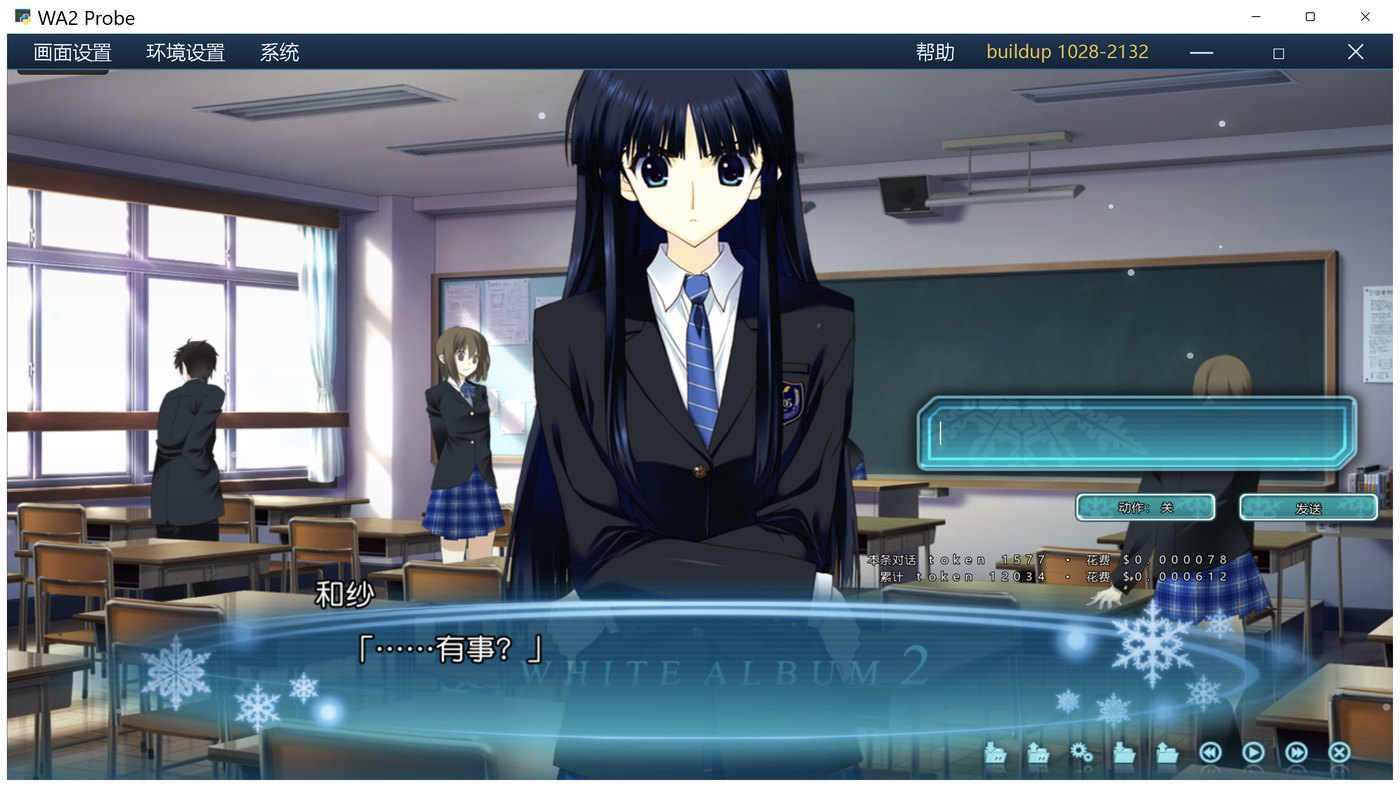
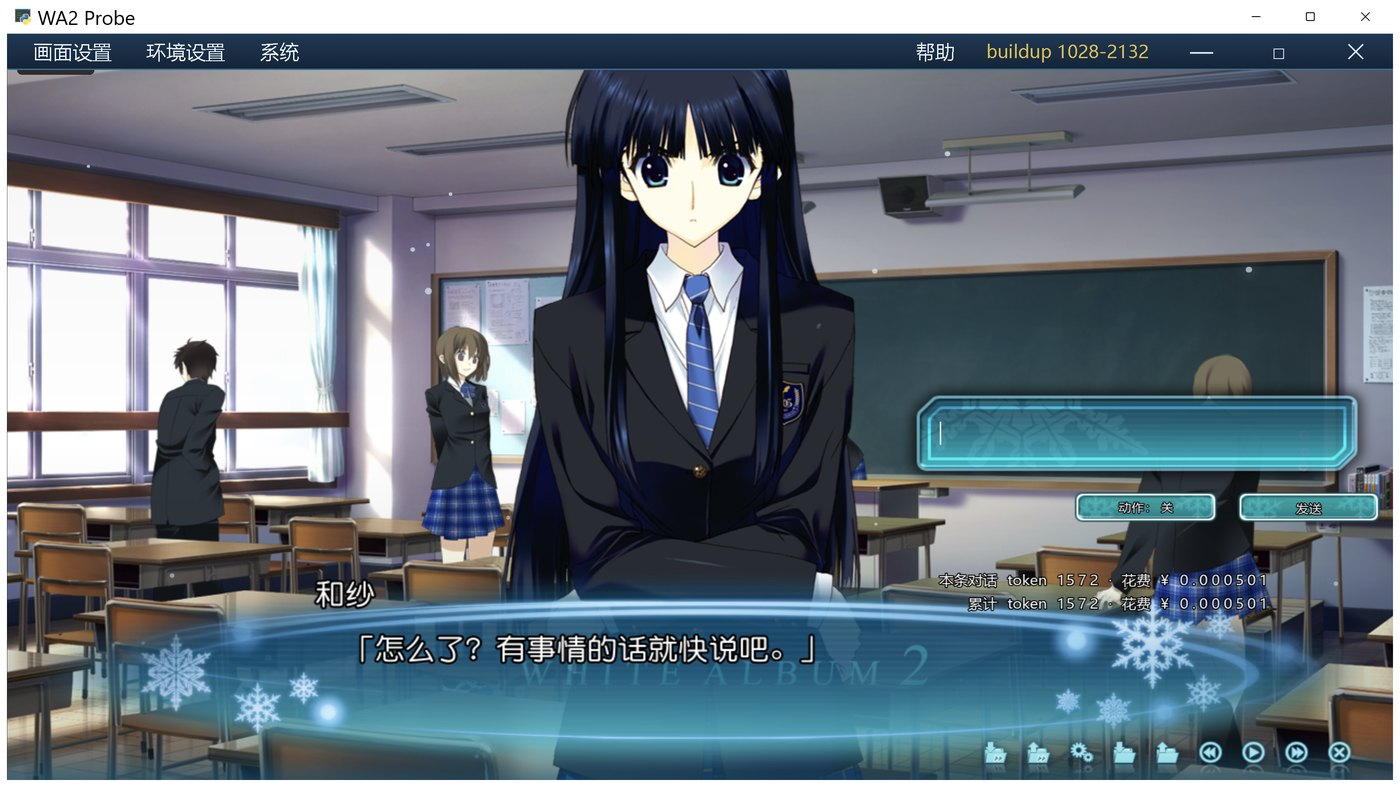
花费栏改用烤好的字模，位置下移右移，随隐藏窗口一起隐藏
- 新增 tools/bake_cost_ui.py：PIL 直接排版烤图（字体自带度量，解决
  /api/text 固定网格把 token、数字撑开的问题）
- 17 张图：本条对话/累计/token/花费/¥/·/./0~9，同高画布共用基线只横裁，
  前端统一 12px 高显示即对齐；数字按 bbox 裁紧
- 位置改为 right:72px bottom:101px（用户指定）；右键隐藏窗口时一起隐藏
- 前端不再为这一栏请求 /api/text，纯拼图

Changed region(s): [[0.6143, 0.7014, 0.9214, 0.7929], [0.2457, 0.7929, 0.5836, 0.8539]]

diff --git a/program/src/ui/index.html b/program/src/ui/index.html
@@ -4,13 +4,13 @@
 <meta charset="UTF-8">
 <meta name="viewport" content="width=device-width, initial-scale=1.0">
 <title>AI 聊天界面架构</title>
-<link rel="stylesheet" href="screens-base.css?v=11011860">
-<link rel="stylesheet" href="opt-screen.css?v=11011860">
-<link rel="stylesheet" href="save-screen.css?v=11011860">
-<link rel="stylesheet" href="game450.css?v=11011860">
-<link rel="stylesheet" href="unifont.css?v=11011860">
-<link rel="stylesheet" href="opt.css?v=11011860">
-  <link rel="stylesheet" href="menubar.css?v=11011860">
+<link rel="stylesheet" href="screens-base.css?v=11011870">
+<link rel="stylesheet" href="opt-screen.css?v=11011870">
+<link rel="stylesheet" href="save-screen.css?v=11011870">
+<link rel="stylesheet" href="game450.css?v=11011870">
+<link rel="stylesheet" href="unifont.css?v=11011870">
+<link rel="stylesheet" href="opt.css?v=11011870">
+  <link rel="stylesheet" href="menubar.css?v=11011870">
 </head>
 <body>
 <div id="stage">
@@ -168,7 +168,7 @@
   </div>
 
   <div id="glowBottom"><img src="assets/ui/glow_bottom.png" alt=""></div>
-  <div id="costBar"><div class="row" id="costNow"></div><div class="row" id="costTotal"></div></div>
+  <div id="costBar"><div class="row"><img class="lb" src="assets/ui/text/cost_now.png" alt=""><img class="lb" src="assets/ui/text/cost_token.png" alt=""><span class="num" id="costNowT"></span><img class="lb" src="assets/ui/text/cost_sep.png" alt=""><img class="lb" src="assets/ui/text/cost_spend.png" alt=""><img class="lb" src="assets/ui/text/cost_yen.png" alt=""><span class="num" id="costNowC"></span></div><div class="row"><img class="lb" src="assets/ui/text/cost_cum.png" alt=""><img class="lb" src="assets/ui/text/cost_token.png" alt=""><span class="num" id="costTotalT"></span><img class="lb" src="assets/ui/text/cost_sep.png" alt=""><img class="lb" src="assets/ui/text/cost_spend.png" alt=""><img class="lb" src="assets/ui/text/cost_yen.png" alt=""><span class="num" id="costTotalC"></span></div></div>
   <div id="toolbar">
     <div class="tb" data-act="qsave"><img class="nm" src="assets/tb2/save_0.png" alt=""><img class="hv" src="assets/tb2/save_1.png" alt=""></div>
     <div class="tb" data-act="qload"><img class="nm" src="assets/tb2/qsave_0.png" alt=""><img class="hv" src="assets/tb2/qsave_1.png" alt=""></div>
@@ -190,20 +190,20 @@
 </div>
 
 <script>function fitStage(){var st=document.getElementById("stage");if(!st)return;var sx=innerWidth/800, sy=innerHeight/450;st.style.transform="translate(-50%,-50%) scale("+sx+","+sy+")";}window.fitStage=fitStage;addEventListener("resize",fitStage);fitStage();</script>
-<script src="atlas.js?v=11011860"></script>
-<script src="config.js?v=11011860"></script>
-<script src="modelmgr.js?v=11011860"></script>
-<script src="opt.js?v=11011860"></script>
-  <script src="savetabs4.js?v=11011860"></script>
-  <script src="savepages.js?v=11011860"></script>
-  <script src="screens.js?v=11011860"></script>
-<script src="game.js?v=11011860"></script>
-<script src="sound.js?v=11011860"></script>
-<script src="zoom.js?v=11011860"></script>
-<script src="debug.js?v=11011860"></script>
-<script src="scale.js?v=11011860"></script>
-<script src="menubar.js?v=11011860"></script>
-<script src="uitext.js?v=11011860"></script>
+<script src="atlas.js?v=11011870"></script>
+<script src="config.js?v=11011870"></script>
+<script src="modelmgr.js?v=11011870"></script>
+<script src="opt.js?v=11011870"></script>
+  <script src="savetabs4.js?v=11011870"></script>
+  <script src="savepages.js?v=11011870"></script>
+  <script src="screens.js?v=11011870"></script>
+<script src="game.js?v=11011870"></script>
+<script src="sound.js?v=11011870"></script>
+<script src="zoom.js?v=11011870"></script>
+<script src="debug.js?v=11011870"></script>
+<script src="scale.js?v=11011870"></script>
+<script src="menubar.js?v=11011870"></script>
+<script src="uitext.js?v=11011870"></script>
 <script>
 /* __hashRoute: 用 #opt / #save / #model 直接打开界面(调试/对比用) */
 window.addEventListener("load", function () {

diff --git a/program/src/ui/game.js b/program/src/ui/game.js
@@ -1536,33 +1536,39 @@ document.addEventListener("contextmenu", function (e) {
 });
 
 /* ---------- 右下角：本条 / 累计 token 与花费 ----------
-   数字来自后端 /api/usage（按官网价格表算钱），文字走统一字模接口 /api/text */
-function moneyText(v, cur) {
-  var sym = (cur === "USD") ? "$" : "\u00a5";   /* 默认人民币 */
-  v = Number(v) || 0;
-  if (v === 0) return sym + "0";
-  if (v < 0.01) return sym + v.toFixed(6);
-  if (v < 1) return sym + v.toFixed(4);
-  return sym + v.toFixed(3);
+   文案与 0~9 都是烤好的字模（tools/bake_cost_ui.py），这里只负责拼图，
+   不再请求 /api/text —— 那个渲染器是中文网格，拉丁字母会被撑开。 */
+var COST_EL = {};
+function costNum(el, str) {
+  if (!el) return;
+  if (el.dataset.v === str) return;
+  el.dataset.v = str;
+  var html = "";
+  for (var i = 0; i < str.length; i++) {
+    var ch = str.charAt(i);
+    var key = (ch === ".") ? "cost_dot" : ("cost_d" + ch);
+    html += '<img src="assets/ui/text/' + key + '.png" alt="">';
+  }
+  el.innerHTML = html;
 }
 
-function costLine(el, text) {
-  if (!el) return;
-  if (el.dataset.t === text) return;
-  el.dataset.t = text;
-  /* chars_per_line 必须给足，否则默认 20 字会折成两行，再按 8px 高显示就糊成一团 */
-  el.innerHTML = '<img src="/api/text?text=' + encodeURIComponent(text) +
-                 '&plain=1&chars_per_line=80&max_width=4000" alt="">';
+/* 金额转成"纯数字串"（币种符号已经是一张固定的 ¥ 图） */
+function moneyStr(v) {
+  v = Number(v) || 0;
+  if (v === 0) return "0";
+  if (v < 0.01) return v.toFixed(6);
+  if (v < 1) return v.toFixed(4);
+  return v.toFixed(3);
 }
 
 function renderCost(u) {
   if (!u) return;
   if (u.tokens !== undefined) {
-    costLine(document.getElementById("costNow"),
-      "本条对话 token " + u.tokens + " · 花费 " + moneyText(u.cost, u.currency));
+    costNum(COST_EL.nowT, String(Math.round(u.tokens)));
+    costNum(COST_EL.nowC, moneyStr(u.cost));
   }
-  costLine(document.getElementById("costTotal"),
-    "累计 token " + (u.cumTokens || 0) + " · 花费 " + moneyText(u.cumCost || 0, u.currency));
+  costNum(COST_EL.totT, String(Math.round(u.cumTokens || 0)));
+  costNum(COST_EL.totC, moneyStr(u.cumCost));
 }
 window.__renderCost = renderCost;
 
@@ -1572,13 +1578,17 @@ window.__refreshCost = function () {
     fetch("/api/usage", { cache: "no-store" })
       .then(function (r) { return r.json(); })
       .then(function (d) {
-        if (d && d.ok) renderCost({ cumTokens: d.tokens, cumCost: d.cost, currency: d.currency });
+        if (d && d.ok) renderCost({ cumTokens: d.tokens, cumCost: d.cost });
       })
       .catch(function () {});
   } catch (e) {}
 };
 
 document.addEventListener("DOMContentLoaded", function () {
+  COST_EL.nowT = document.getElementById("costNowT");
+  COST_EL.nowC = document.getElementById("costNowC");
+  COST_EL.totT = document.getElementById("costTotalT");
+  COST_EL.totC = document.getElementById("costTotalC");
   window.__refreshCost();
   setInterval(function () { window.__refreshCost(); }, 20000);
 });
@@ -1591,7 +1601,8 @@ document.addEventListener("DOMContentLoaded", function () {
   css.textContent =
     "body.uiHidden #msgWrap,body.uiHidden #inputBar,body.uiHidden #toolbar," +
     "body.uiHidden #menuBar,body.uiHidden #glowBottom,body.uiHidden #historyPanel," +
-    "body.uiHidden #thinkBox,body.uiHidden #choiceScreen,body.uiHidden .uiScreen," +
+    "body.uiHidden #thinkBox,body.uiHidden #choiceScreen,body.uiHidden #costBar," +
+    "body.uiHidden .uiScreen," +
     "body.uiHidden #dbgPanel{" +
     "opacity:0!important;pointer-events:none!important}";
   document.head.appendChild(css);

diff --git a/program/src/ui/game450.css b/program/src/ui/game450.css
@@ -844,16 +844,25 @@ body.histOpen #toolbar { display:none !important; }
 #thinkBtn.released::before, #sendBtn.released::before { background-position: 0 100%; }
 
 /* ===== 右下角：本条 / 累计 token 与花费 =====
-   位置按用户框的位置：对话框上方、发送按钮右侧
-   字走统一字模接口（/api/text），两条各一张图 */
+   文案和数字都是烤好的字模（tools/bake_cost_ui.py），前端只拼图，不再请求 /api/text
+   位置：发送按钮下方偏右（用户指定） */
 #costBar {
   position: absolute;
-  right: 93px;
-  bottom: 127px;
-  text-align: right;
+  right: 72px;
+  bottom: 101px;
   z-index: 24;
   pointer-events: none;
-  opacity: .92;
+  opacity: .95;
 }
-#costBar .row { height: 9px; margin-top: 1px; }
-#costBar .row img { height: 8px; width: auto; display: inline-block; }
+#costBar .row {
+  display: flex;
+  justify-content: flex-end;
+  align-items: center;
+  height: 12px;
+  margin-top: 2px;
+  gap: 3px;
+}
+#costBar .row img { height: 12px; width: auto; display: block; }
+#costBar .num { display: inline-flex; align-items: center; margin: 0 1px; }
+#costBar .row img.lb { margin: 0 .5px; }
+#costBar .num img { height: 12px; width: auto; display: block; margin: 0 .4px; }

diff --git a/program/tools/bake_cost_ui.py b/program/tools/bake_cost_ui.py
@@ -1,0 +1,77 @@
+# -*- coding: utf-8 -*-
+"""烤「花费」那一栏的字模：固定文案 + 0~9 单字。
+
+为什么不走 /api/text：
+    字模渲染器是给中文设计的固定网格（每个字 28px 步进），
+    拉丁字母和数字会被撑得很开（token 变成 t o k e n）。
+    这里改用 PIL 直接排版 —— 一个词一次画完，字符间距是字体自己的度量。
+
+做法：
+    所有小图都画在**同高画布**上、共用同一条基线，只横向裁掉空白。
+    这样前端把每张都设成同一个高度，字就是对得齐的。
+
+用法：
+    python tools/bake_cost_ui.py
+"""
+import os
+import sys
+
+from PIL import Image, ImageDraw, ImageFont
+
+BASE = os.path.dirname(os.path.dirname(os.path.abspath(__file__)))
+OUT = os.path.join(BASE, "res", "assets", "ui", "text")
+
+FONT_PATH = r"C:/Windows/Fonts/msyh.ttc"
+SIZE = 28
+STROKE = 2
+CANVAS_H = 40          # 统一高度（含上伸部/下伸部），前端按同一高度显示
+BASELINE = 30
+PAD = 4
+FILL = (255, 255, 255, 255)
+STROKE_COLOR = (0, 0, 0, 255)
+
+ITEMS = {
+    "cost_now":   "本条对话",
+    "cost_cum":   "累计",
+    "cost_token": "token",
+    "cost_spend": "花费",
+    "cost_sep":   "·",
+    "cost_yen":   "¥",
+    "cost_dot":   ".",
+}
+for _d in range(10):
+    ITEMS["cost_d%d" % _d] = str(_d)
+
+
+def bake(text, font):
+    canvas = Image.new("RGBA", (900, CANVAS_H), (0, 0, 0, 0))
+    d = ImageDraw.Draw(canvas)
+    # anchor="ls"：左下角 = 基线左下，保证所有小图共用一条基线
+    d.text((PAD, BASELINE), text, font=font, fill=FILL,
+           stroke_width=STROKE, stroke_fill=STROKE_COLOR, anchor="ls")
+    bb = canvas.split()[3].getbbox()
+    if not bb:
+        return canvas
+    # 只横向裁紧，纵向保留整块画布（对齐用）
+    left = max(0, bb[0] - 1)
+    right = min(canvas.width, bb[2] + 1)
+    return canvas.crop((left, 0, right, CANVAS_H))
+
+
+def main():
+    sys.stdout.reconfigure(encoding="utf-8", errors="replace")
+    if not os.path.exists(FONT_PATH):
+        print("找不到字体:", FONT_PATH)
+        return 1
+    font = ImageFont.truetype(FONT_PATH, SIZE)
+    os.makedirs(OUT, exist_ok=True)
+    for key, text in ITEMS.items():
+        img = bake(text, font)
+        img.save(os.path.join(OUT, key + ".png"))
+        print("%-12s %-8r %dx%d" % (key, text, img.width, img.height))
+    print("\n共 %d 张 → %s" % (len(ITEMS), OUT))
+    return 0
+
+
+if __name__ == "__main__":
+    sys.exit(main())

diff --git a/other/docs/开发日志2026-11-01_18-30-00.md b/other/docs/开发日志2026-11-01_18-30-00.md
@@ -49,7 +49,28 @@
 一行字被拆成两行，再按 8px 高显示就糊成一团。
 修法：请求里带 `chars_per_line=80&max_width=4000`，保证一行。
 
-## 五、币种：一开始抓错了页面
+## 五、改用烤好的字模（第二轮）
+
+`/api/text` 的渲染器是给中文设计的固定网格（每字 28px 步进），拉丁字母与数字会被撑开，
+`token` 变成 `t o k e n`、`1722` 变成 `1 7 2 2`。
+
+改法：新增 `tools/bake_cost_ui.py`，用 PIL 直接排版（字体自带度量，词内间距正常），
+烤出 17 张图到 `res/assets/ui/text/`：
+
+| 图 | 内容 |
+|---|---|
+| `cost_now` / `cost_cum` | 本条对话 / 累计 |
+| `cost_token` | token（整词一张，不再逐字母） |
+| `cost_spend` / `cost_yen` / `cost_sep` / `cost_dot` | 花费 / ¥ / · / . |
+| `cost_d0` ~ `cost_d9` | 0~9 单字 |
+
+要点：所有小图都画在**同高画布（40px）**、共用一条基线，只横向裁空白 ——
+前端统一按 12px 高显示，字就是对齐的。数字按 bbox 裁紧，间距由 CSS 控制。
+
+位置按用户框的位置下移右移：`right: 72px; bottom: 101px`。
+右键「隐藏窗口」时一起隐藏（`body.uiHidden #costBar`）。
+
+## 六、币种：一开始抓错了页面
 
 第一版抓的是**英文页**，价格是美元；用户要求显示人民币，所以改抓**中文页**
 （同一张表，单位是元）：
@@ -62,7 +83,7 @@
 
 接口里的 `currency` 字段会跟着返回，前端按 `CNY` 显示 `¥`、按 `USD` 显示 `$`。
 
-## 六、注意
+## 七、注意
 
 - 价格页是**网页**不是 API，官方改版可能解析失败 → 会自动退回内置表（日志/接口里 `source` 字段能看到是 `official` 还是 `builtin`）
 - 内置表是 2026-11 的数字，长期不更新会过期；`source=official` 时以线上为准
